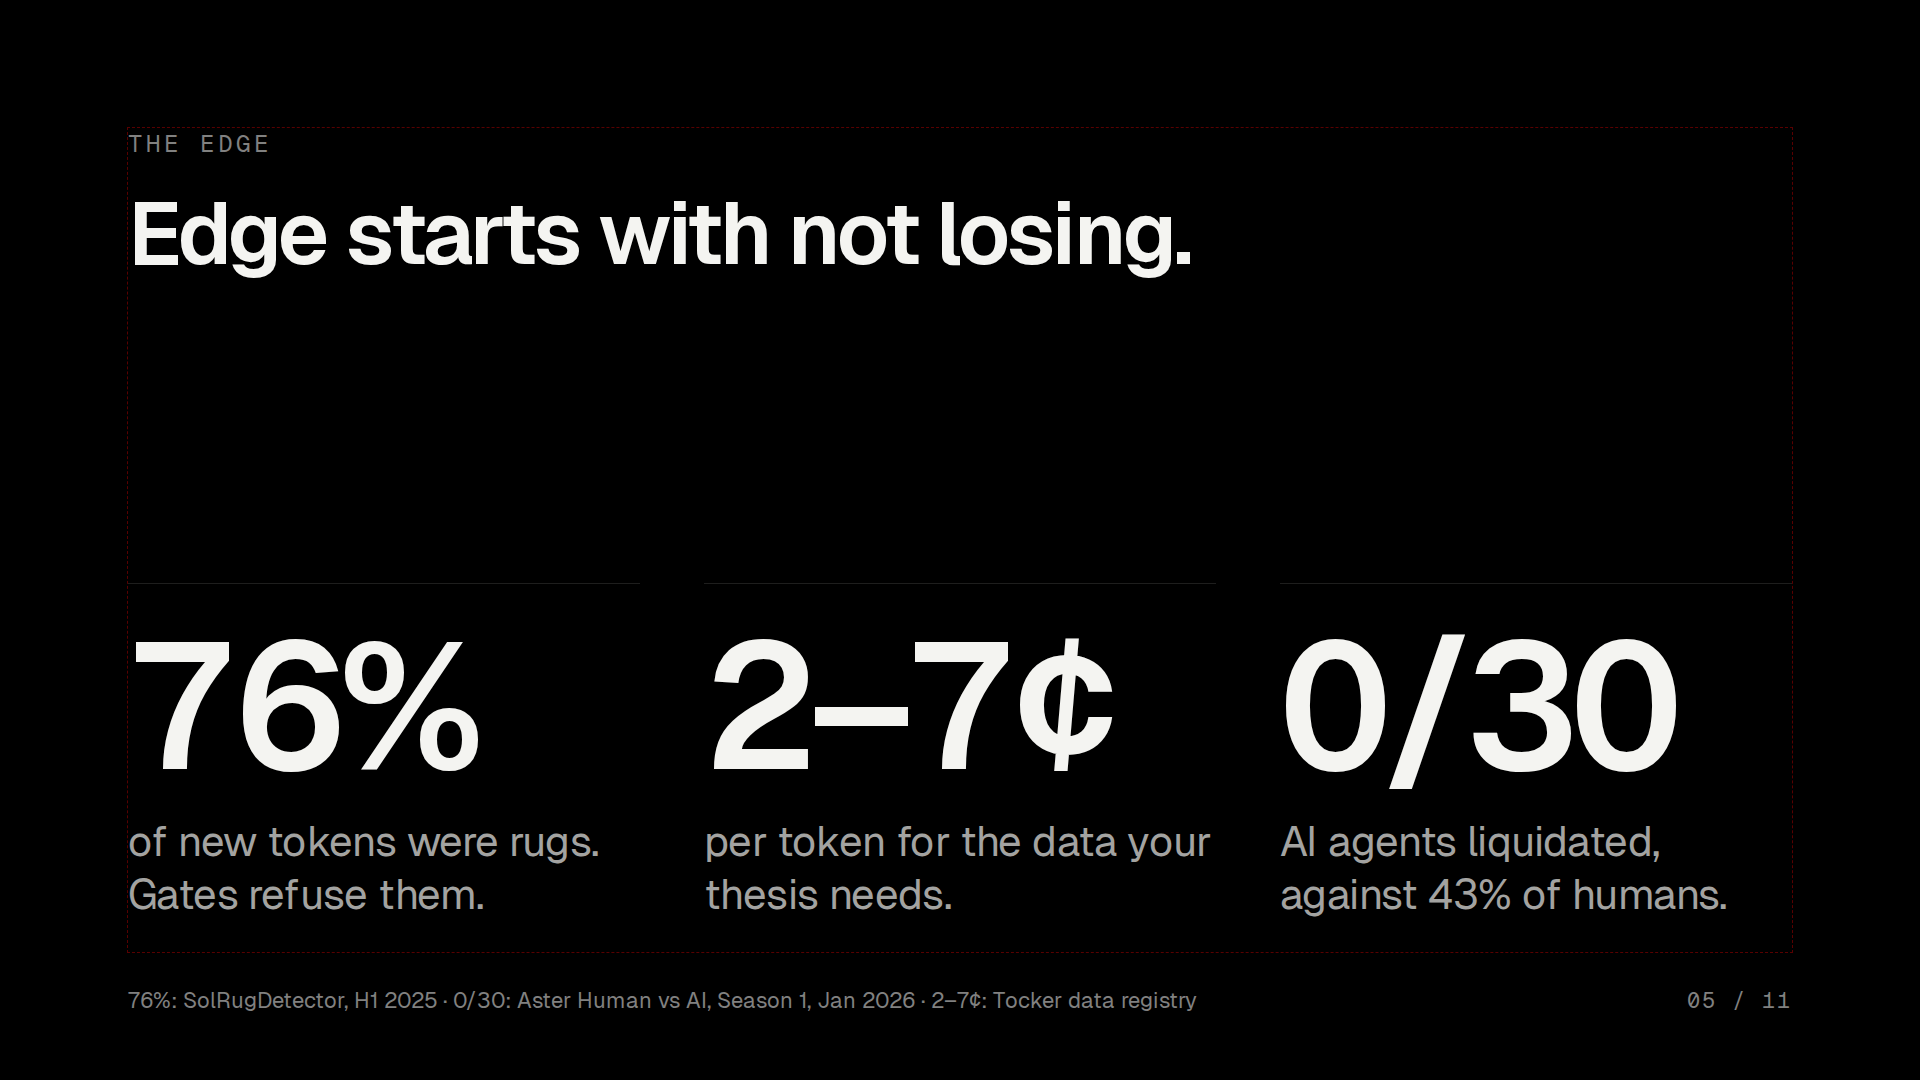
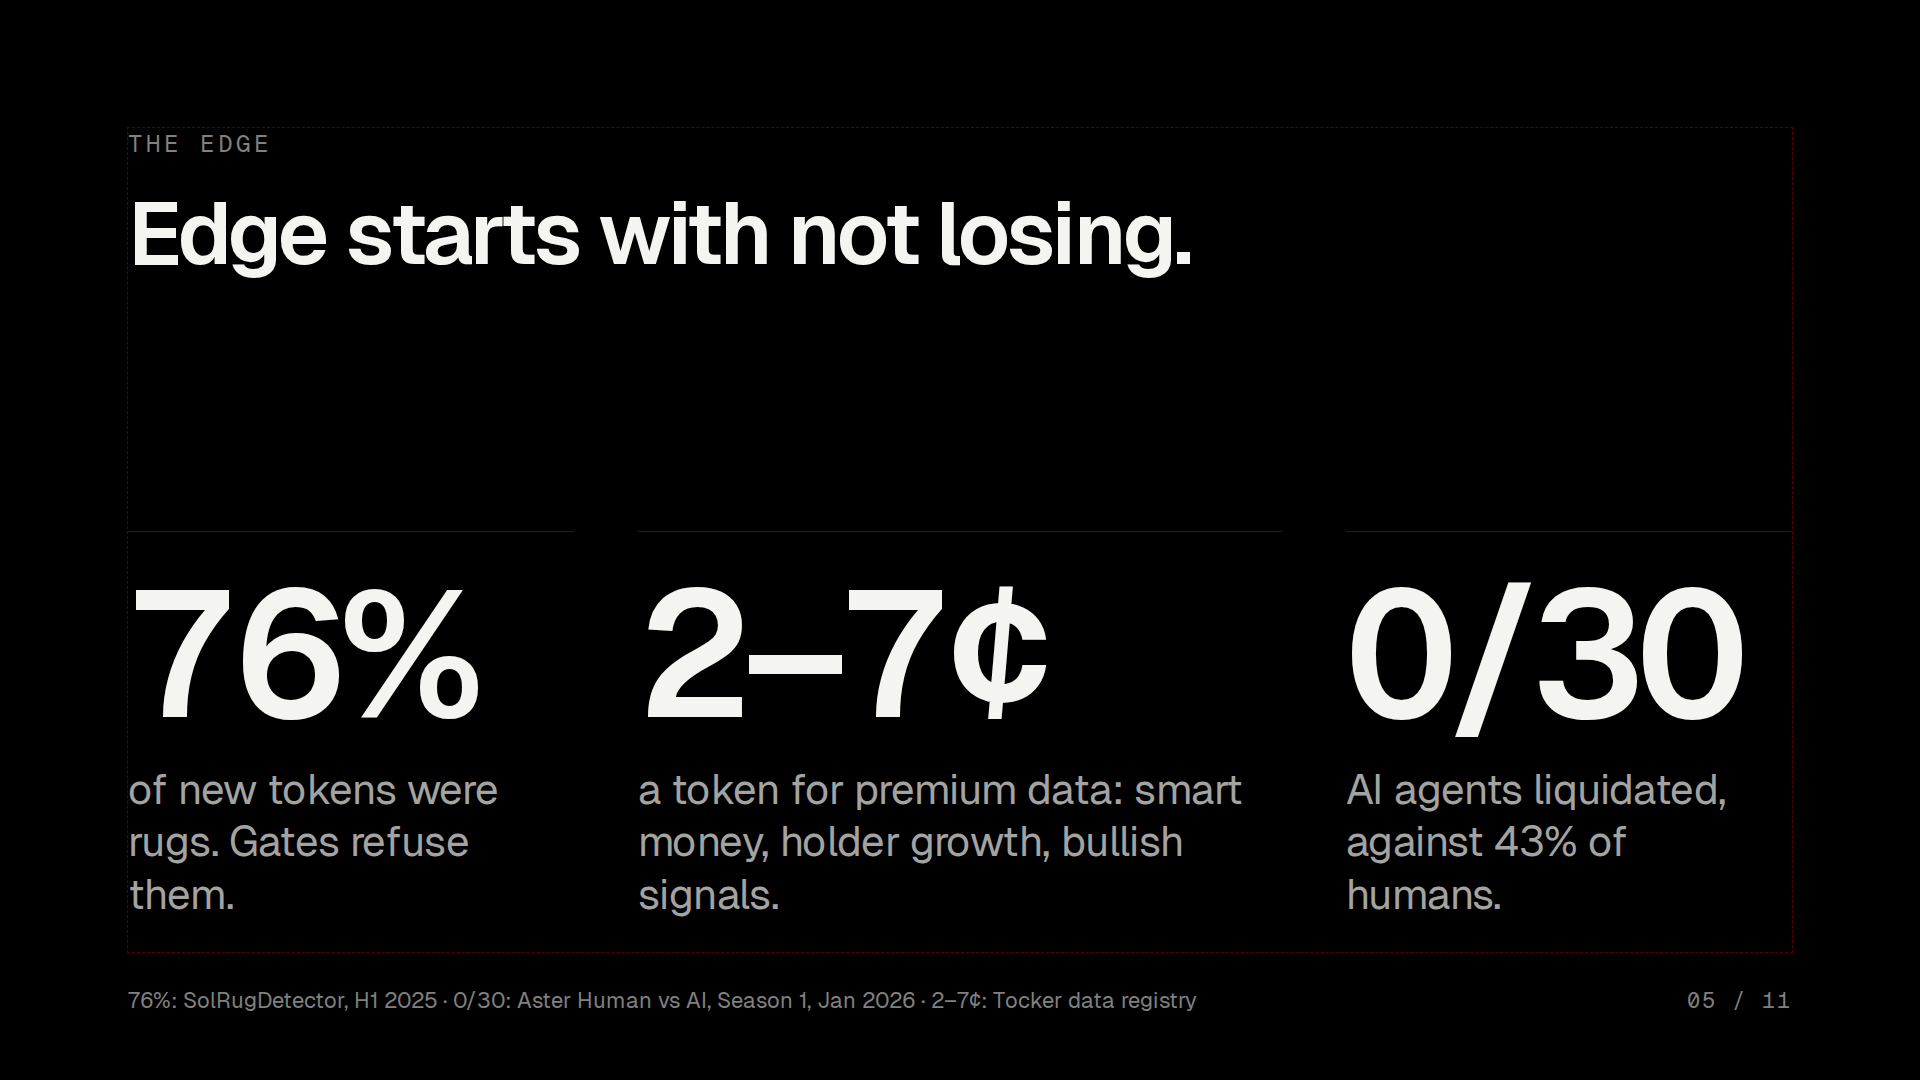
docs(pitch): edge names the premium data; GTM back to two columns
Claude-Session: https://claude.ai/code/session_01C63X7bmiYFRUvieQLSha7b

Changed region(s): [[0.0625, 0.5194, 0.6562, 0.8556], [0.6562, 0.5194, 0.9062, 0.8556]]

diff --git a/docs/pitch/deck/build_simple_slides.py b/docs/pitch/deck/build_simple_slides.py
@@ -42,8 +42,8 @@ SLIDES = {
                        ("24/7", "hosted. Nothing to wire.")], 180), ""),
     "edge": ("The edge", "Edge starts with not losing.",
              bigs([("76%", "of new tokens were rugs. Gates refuse them."),
-                   ("2–7¢", "per token for the data your thesis needs."),
-                   ("0/30", "AI agents liquidated, against 43% of humans.")], 180),
+                   ("2–7¢", "a token for premium data: smart money, holder growth, bullish signals."),
+                   ("0/30", "AI agents liquidated, against 43% of humans.")], 180, [0.9, 1.3, 0.9]),
              "76%: SolRugDetector, H1 2025 · 0/30: Aster Human vs AI, Season 1, Jan 2026 · 2–7¢: Tocker data registry"),
     "business": ("Business model", "Traders pay 1%. We charge 0.5%.",
                  bigs([("$940M", "paid to Solana trading bots in 2025."),
@@ -58,11 +58,32 @@ SLIDES = {
 
 
 def gtm():
-    body = bigs([("$5K", "Superteam bounty. Best AI strategy wins."),
-                 ("X", "Paid ads and cold DMs."),
-                 ("$482B", "Solana memecoins. Then Polymarket and stocks.")], 180, [1, 0.8, 1.45])
+    def row(k, big, tag):
+        return (f'      <div style="display:flex; flex-direction:column; gap:12px; padding:24px 0 20px; border-top:1px solid {HAIR}">\n'
+                f'        <p style="{MONO}; font-size:24px; letter-spacing:4px; text-transform:uppercase; color:{DIM}">{e(k)}</p>\n'
+                f'        <p style="{SANS}; font-size:96px; font-weight:600; line-height:1; letter-spacing:-4px; white-space:nowrap; color:{FG}">{e(big)}</p>\n'
+                f'        <p style="{SANS}; font-size:36px; line-height:1.25; letter-spacing:-0.5px; color:{MID}">{e(tag)}</p>\n'
+                f'      </div>\n')
+
+    def mkt(k, num, tag):
+        return (f'      <div style="display:flex; flex-direction:row; gap:28px; align-items:baseline; padding:30px 0; border-top:1px solid {HAIR}">\n'
+                f'        <p style="width:92px; {MONO}; font-size:24px; letter-spacing:3px; text-transform:uppercase; color:{DIM}">{e(k)}</p>\n'
+                f'        <p style="width:310px; {SANS}; font-size:96px; font-weight:600; line-height:1; letter-spacing:-4px; font-variant-numeric:tabular-nums; color:{FG}">{e(num)}</p>\n'
+                f'        <p style="flex:1; {SANS}; font-size:36px; line-height:1.25; color:{MID}">{e(tag)}</p>\n'
+                f'      </div>\n')
+    head = lambda t: f'      <p style="{MONO}; font-size:24px; letter-spacing:4px; text-transform:uppercase; color:{MID}; padding:0 0 18px">{e(t)}</p>\n'
+    left = ('    <div style="display:flex; flex-direction:column; flex:1">\n' + head("How we get users")
+            + row("01 · Superteam Earn bounty", "$5K", "The first autonomous trading competition. Best strategy wins.")
+            + row("02 · X", "Ads + DMs", "Paid ads and cold DMs to traders.")
+            + '    </div>\n')
+    right = ('    <div style="display:flex; flex-direction:column; flex:1">\n' + head("Markets we expand to · yearly volume")
+             + mkt("Now", "$482B", "Solana memecoins")
+             + mkt("Next", "$21.5B", "Polymarket")
+             + mkt("Then", "$12.4B", "Tokenized stocks")
+             + '    </div>\n')
+    body = f'  <div style="display:flex; flex-direction:row; gap:96px; align-items:start">\n{left}{right}  </div>\n'
     return section("gtm", "Go-to-market", "Win traders. Then new markets.", body,
-                   "$482B: Solana memecoin volume, 2025 recap · Polymarket $21.5B (2025) · Solana tokenized stocks $12.4B (2026 to date)")
+                   "$482B: Solana 2025 recap · $21.5B: Polymarket 2025, Keyrock × Dune · $12.4B: Solana tokenized stocks, 2026 to date")
 
 
 for sid, (eb, h, body, foot) in SLIDES.items():

diff --git a/docs/pitch/pitch-3min.md b/docs/pitch/pitch-3min.md
@@ -21,7 +21,7 @@ Tocker fixes both with one line of English. Ten hard gates in code refuse unsafe
 Here's a sample run. The thesis: memes smart money is accumulating. Your agent finds WIF. It scores eighty-one, clears all ten gates, and buys a hundred dollars, exits in code. [pause] I was emotional. An agent isn't. It just follows your rules.
 
 ## edge
-So what's the edge? Not prediction: nobody has shown an AI that picks memecoin winners. It starts with not losing. Our gates refuse the rugs, and the AI can't override them. Your thesis picks from what's left. And exits run by rule: in a live contest, none of thirty AI agents got liquidated. Forty-three percent of humans did.
+So what's the edge? Not prediction: nobody has shown an AI that picks memecoin winners. It starts with not losing. Our gates refuse the rugs, and the AI can't override them. Then your thesis picks from what's left, with premium data most traders never buy: smart money, holder growth, bullish signals, for a few cents a token. And exits run by rule: in a live contest, none of thirty AI agents got liquidated. Forty-three percent of humans did.
 
 ## business
 Who pays? Traders already do: nine hundred forty million dollars last year to Solana bots and terminals, at one percent a trade. We charge half, and it's live.
